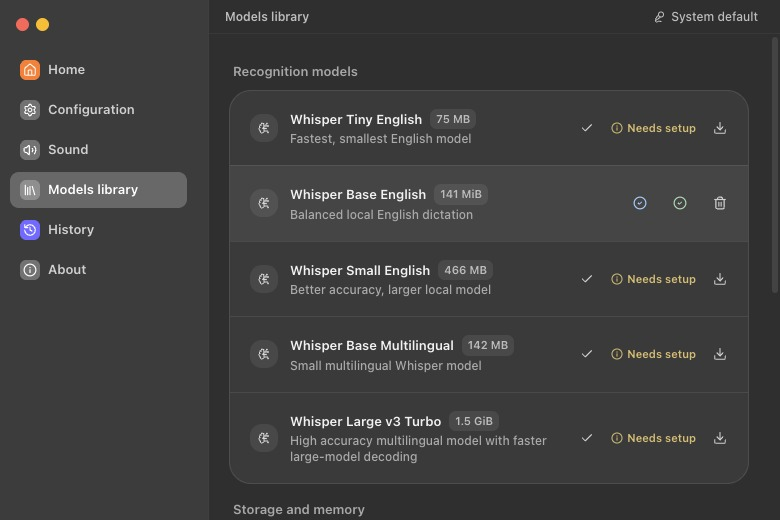
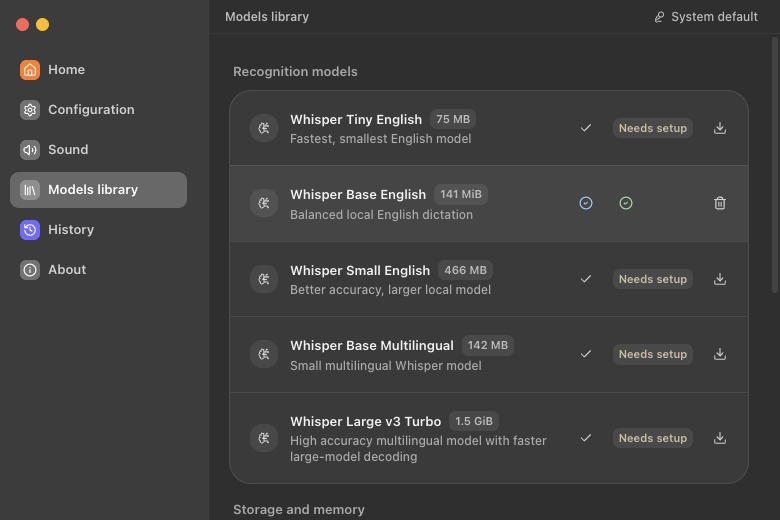
ASR Pro: align model action columns

diff --git a/src/App.tsx b/src/App.tsx
@@ -309,6 +309,7 @@ const iconTileClass = `grid size-7 shrink-0 place-items-center ${sharedRadiusCla
 const focusRingClass = "focus-visible:outline focus-visible:outline-2 focus-visible:outline-offset-2 focus-visible:outline-[#9bcfff]";
 const panelControlButtonClass = `inline-flex min-h-8 items-center justify-center gap-1.5 ${sharedRadiusClass} border border-[#5c5c5c] bg-[#303030] text-[12px] font-semibold text-[#eeeeee] transition hover:bg-[#3a3a3a] active:scale-[0.97] disabled:cursor-not-allowed disabled:text-[#8a8a8a] ${focusRingClass}`;
 const historyActionButtonClass = `grid size-7 place-items-center ${sharedRadiusClass} text-[#bdbdbd] transition hover:bg-[#555] hover:text-white disabled:cursor-wait disabled:opacity-55`;
+const modelMetaBadgeClass = "rounded-[7px] bg-white/[0.075] px-1.5 py-0.5 text-[11px] font-semibold text-[#bcbcbc]";
 const dropdownSurfaceClass = `scrollbar-macos dropdown-options-scrollbar absolute z-50 max-h-64 overflow-x-hidden overflow-y-auto ${sharedRadiusClass} border border-[#5c5c5c] bg-[#303030] py-1 pl-1 pr-0.5 shadow-2xl shadow-black/40`;
 const dropdownOptionButtonClass = `flex w-full min-w-0 items-start gap-2 ${insetControlRadiusClass} px-2.5 py-2 text-left text-[12px] font-semibold leading-4 transition`;
 const segmentedControlClass = `inline-flex ${sharedRadiusClass} border border-white/[0.08] bg-[#2b2b2b] p-0.5`;
@@ -2171,12 +2172,12 @@ function ModelsView({
                   <span className="min-w-0 flex-1">
                     <span className="flex min-w-0 flex-wrap items-center gap-x-2 gap-y-1">
                       <span className="text-[13px] font-semibold leading-5 text-[#f2f2f2]">{model.displayName}</span>
-                      <span className="rounded-[7px] bg-white/[0.075] px-1.5 py-0.5 text-[11px] font-semibold text-[#bcbcbc]">{diskLabel}</span>
+                      <span className={modelMetaBadgeClass}>{diskLabel}</span>
                     </span>
                     <span className="selectable-text mt-0.5 block text-[12px] font-medium leading-4 text-[#aaa]">{model.detail}</span>
                   </span>
                 </div>
-                <div className="flex shrink-0 items-center justify-end gap-2 pl-11 sm:pl-0">
+                <div data-model-controls className="grid shrink-0 grid-cols-[32px_86px_32px] items-center gap-2 pl-11 sm:pl-0">
                   <ModelSelectButton
                     modelName={model.displayName}
                     selected={selected}
@@ -2277,8 +2278,7 @@ function ModelStatusLabel({ installed, modelName }: { installed: boolean; modelN
   }
 
   return (
-    <span className="inline-flex shrink-0 items-center gap-1 text-[11px] font-semibold text-[#d9bd72]">
-      <Info className="size-3" />
+    <span className={`${modelMetaBadgeClass} justify-self-center text-[#c9c0a4]`}>
       Needs setup
     </span>
   );

diff --git a/src/App.test.tsx b/src/App.test.tsx
@@ -1163,7 +1163,10 @@ describe("ASR Pro Electron shell", () => {
     expect(screen.getByText("AI model footprint")).toBeTruthy();
     expect(screen.getAllByText("120 MiB").length).toBeGreaterThan(0);
     expect(screen.getByText("Whisper models")).toBeTruthy();
-    expect(screen.getByText("Needs setup").className).toContain("text-[11px]");
+    const setupBadge = screen.getByText("Needs setup");
+    expect(setupBadge.className).toContain("rounded-[7px]");
+    expect(setupBadge.className).toContain("bg-white/[0.075]");
+    expect(setupBadge.className).toContain("px-1.5");
     expect(screen.queryByText("Selected")).toBeNull();
     expect(screen.queryByText(/^Ready$/)).toBeNull();
 
@@ -1171,6 +1174,11 @@ describe("ASR Pro Electron shell", () => {
     expect(baseSelectButton.textContent).not.toContain("Selected");
     expect(baseSelectButton.parentElement?.textContent).toContain("Current model");
     expect(screen.getByLabelText("Whisper Base English downloaded").parentElement?.textContent).toContain("Downloaded model");
+    const controlColumns = Array.from(document.querySelectorAll("[data-model-controls]"));
+    expect(controlColumns).toHaveLength(initialModels.length);
+    for (const controls of controlColumns) {
+      expect(controls.className).toContain("grid-cols-[32px_86px_32px]");
+    }
 
     const downloadButton = screen.getByRole("button", { name: "Download Whisper Large v3 Turbo" });
     expect(downloadButton.textContent).not.toContain("Download");
